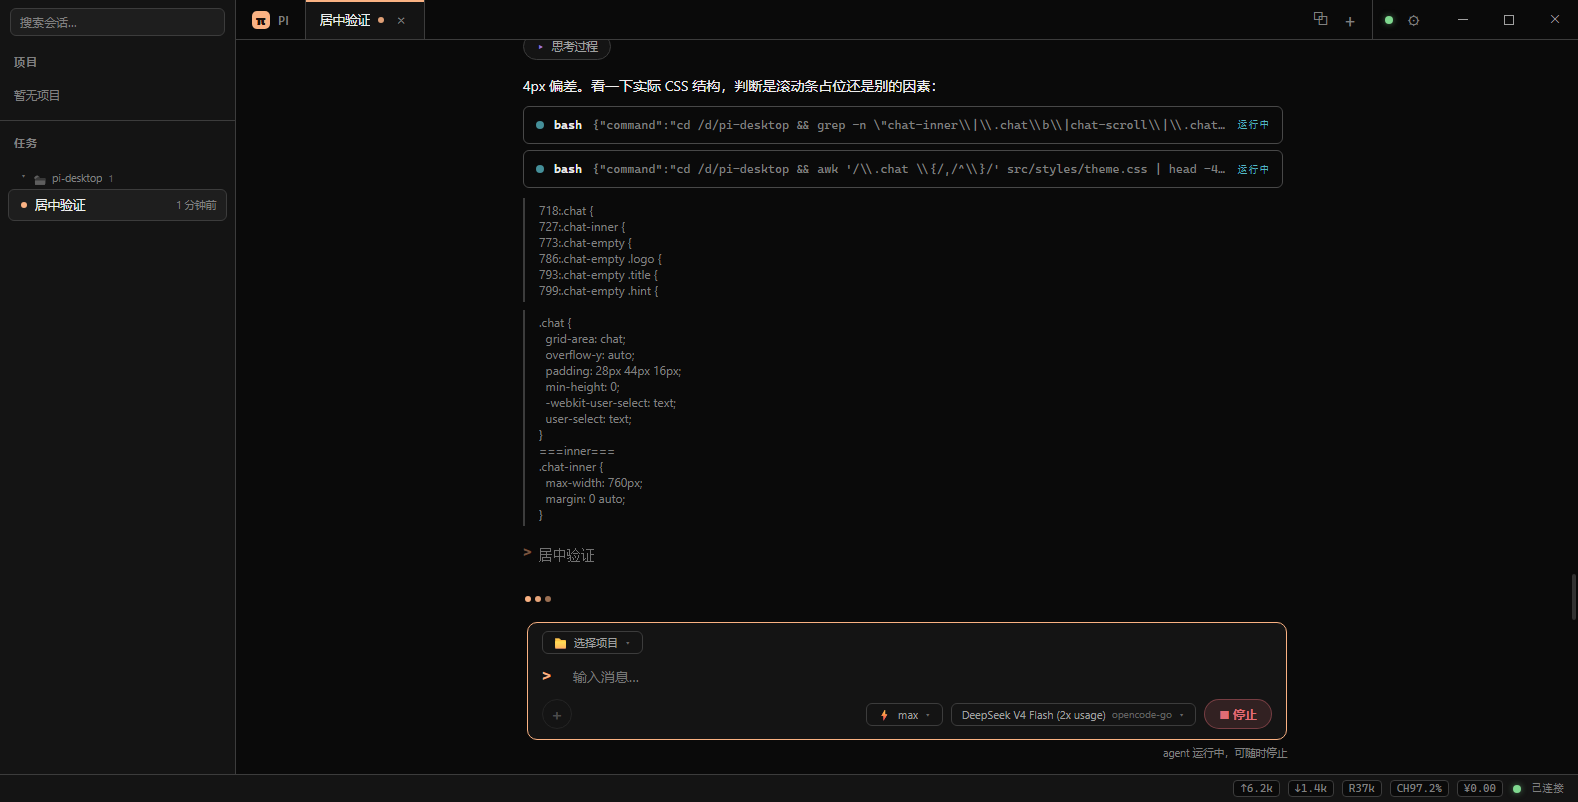
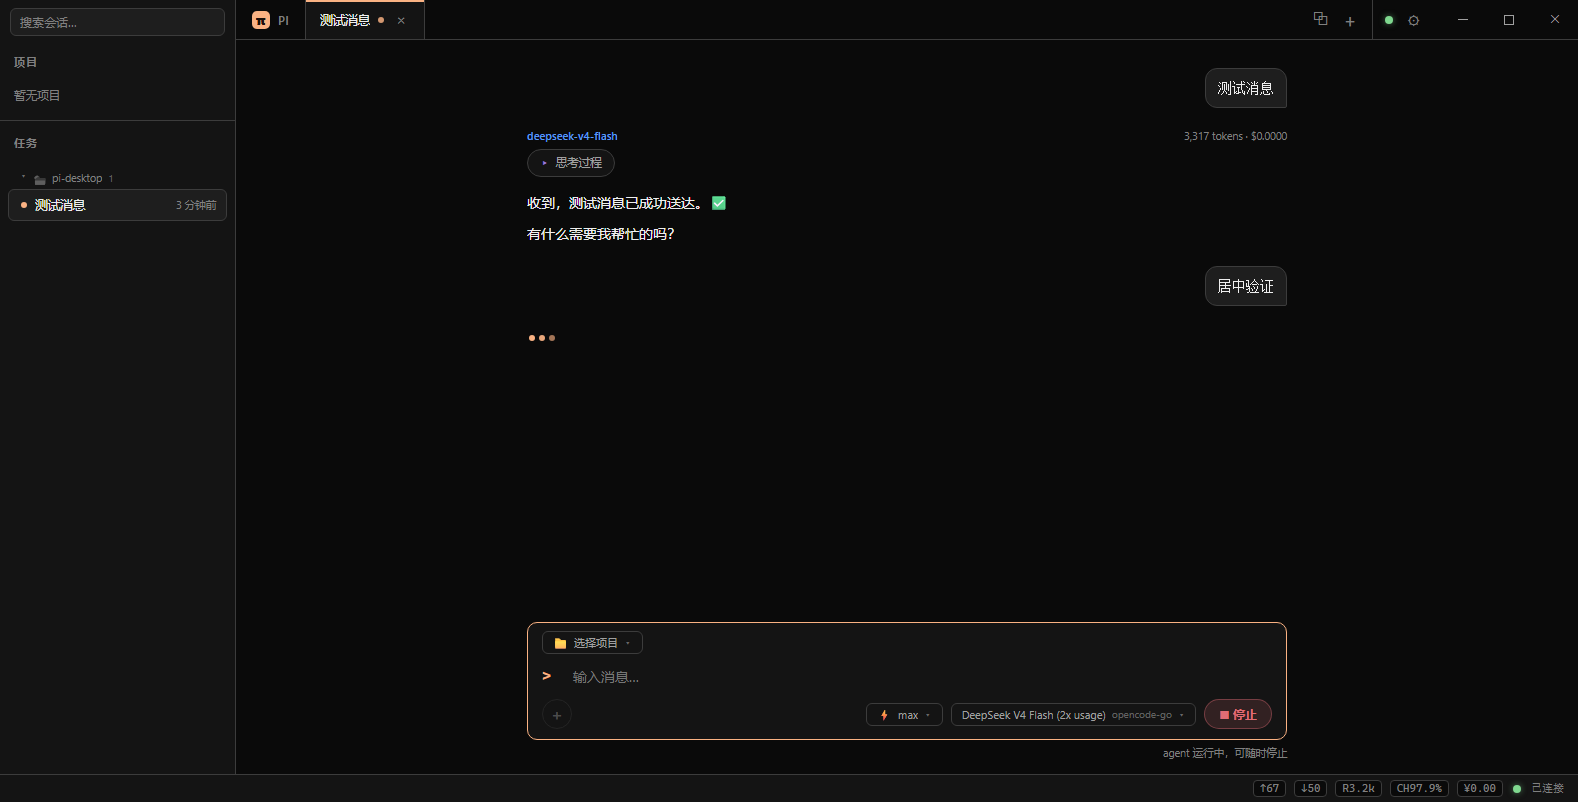
feat: 用户消息改为右侧气泡——消息列仍居中,用户消息在列内右对齐(气泡: --bg-element 背景+边框+12px 圆角右下小收角),与 AI 输出区分;去掉用户消息前的「>」提示符(输入区保留); probe-chat-center.mjs 扩到 10 断言(气泡贴右缘 gap 0px/背景/圆角,列居中 offset 0px); bump 0.1.28

diff --git a/src/styles/theme.css b/src/styles/theme.css
@@ -744,10 +744,15 @@ select:focus {
 
 .message-row.user {
   display: flex;
-  align-items: flex-start;
+  justify-content: flex-end;
 }
 
 .message-row.user .user-text {
+  background: var(--bg-element);
+  border: 1px solid var(--border);
+  border-radius: 12px 12px 2px 12px;
+  padding: 8px 12px;
+  max-width: 85%;
   white-space: pre-wrap;
   font-size: 13.5px;
   line-height: 1.65;

diff --git a/src/components/Message.tsx b/src/components/Message.tsx
@@ -106,7 +106,6 @@ export function MessageRow({ message, toolExecs, streaming = false }: RowProps) 
     const text = message.content.map(partText).join('\n');
     return (
       <div className="message-row user">
-        <span className="prompt">&gt;</span>
         <div className="user-text">{text}</div>
       </div>
     );

diff --git a/src/components/ChatView.tsx b/src/components/ChatView.tsx
@@ -79,7 +79,6 @@ export function ChatView() {
           ))}
           {tab.pendingUserText && (
             <div className="message-row user pending">
-              <span className="prompt">&gt;</span>
               <div className="user-text">{tab.pendingUserText}</div>
             </div>
           )}

diff --git a/CHANGELOG.md b/CHANGELOG.md
@@ -3,6 +3,13 @@
 版本号三个文件同步：`package.json` / `src-tauri/Cargo.toml` / `src-tauri/tauri.conf.json`。
 打 `v*` tag 时 GitHub Actions 自动构建 Windows 安装包并发布 draft release。
 
+## [0.1.28] - 2026-08-16
+
+### Features
+- 用户消息改为右侧气泡：消息列仍整体居中，但用户消息在列内右对齐，带
+  气泡样式（--bg-element 背景 + 边框 + 12px 圆角，右下角小收角），与 AI
+  输出在视觉上明确区分；去掉用户消息前的「>」提示符（输入区保留）
+
 ## [0.1.27] - 2026-08-16
 
 ### Fixes
